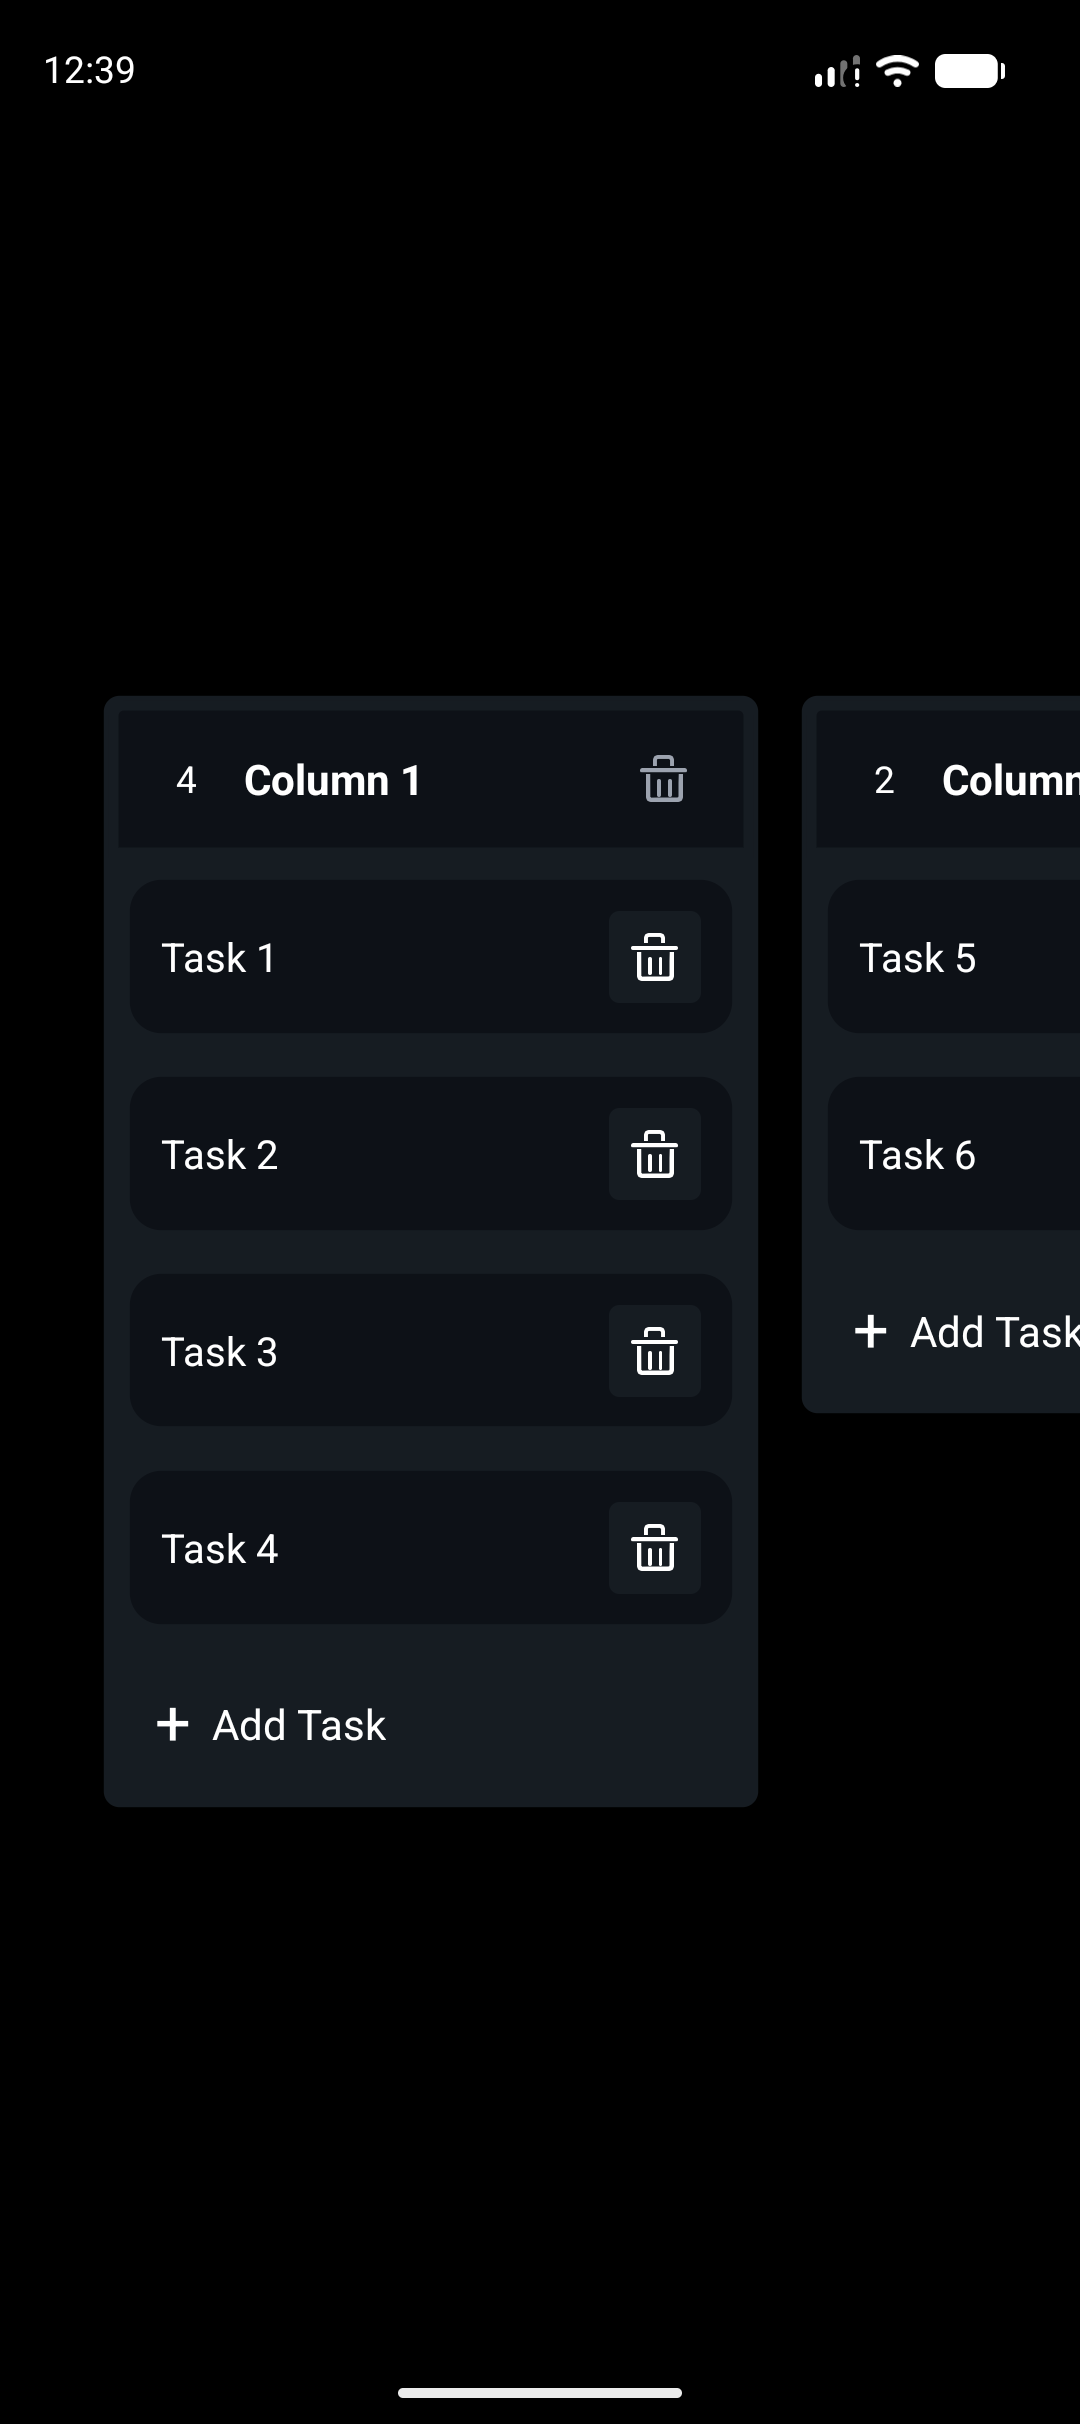
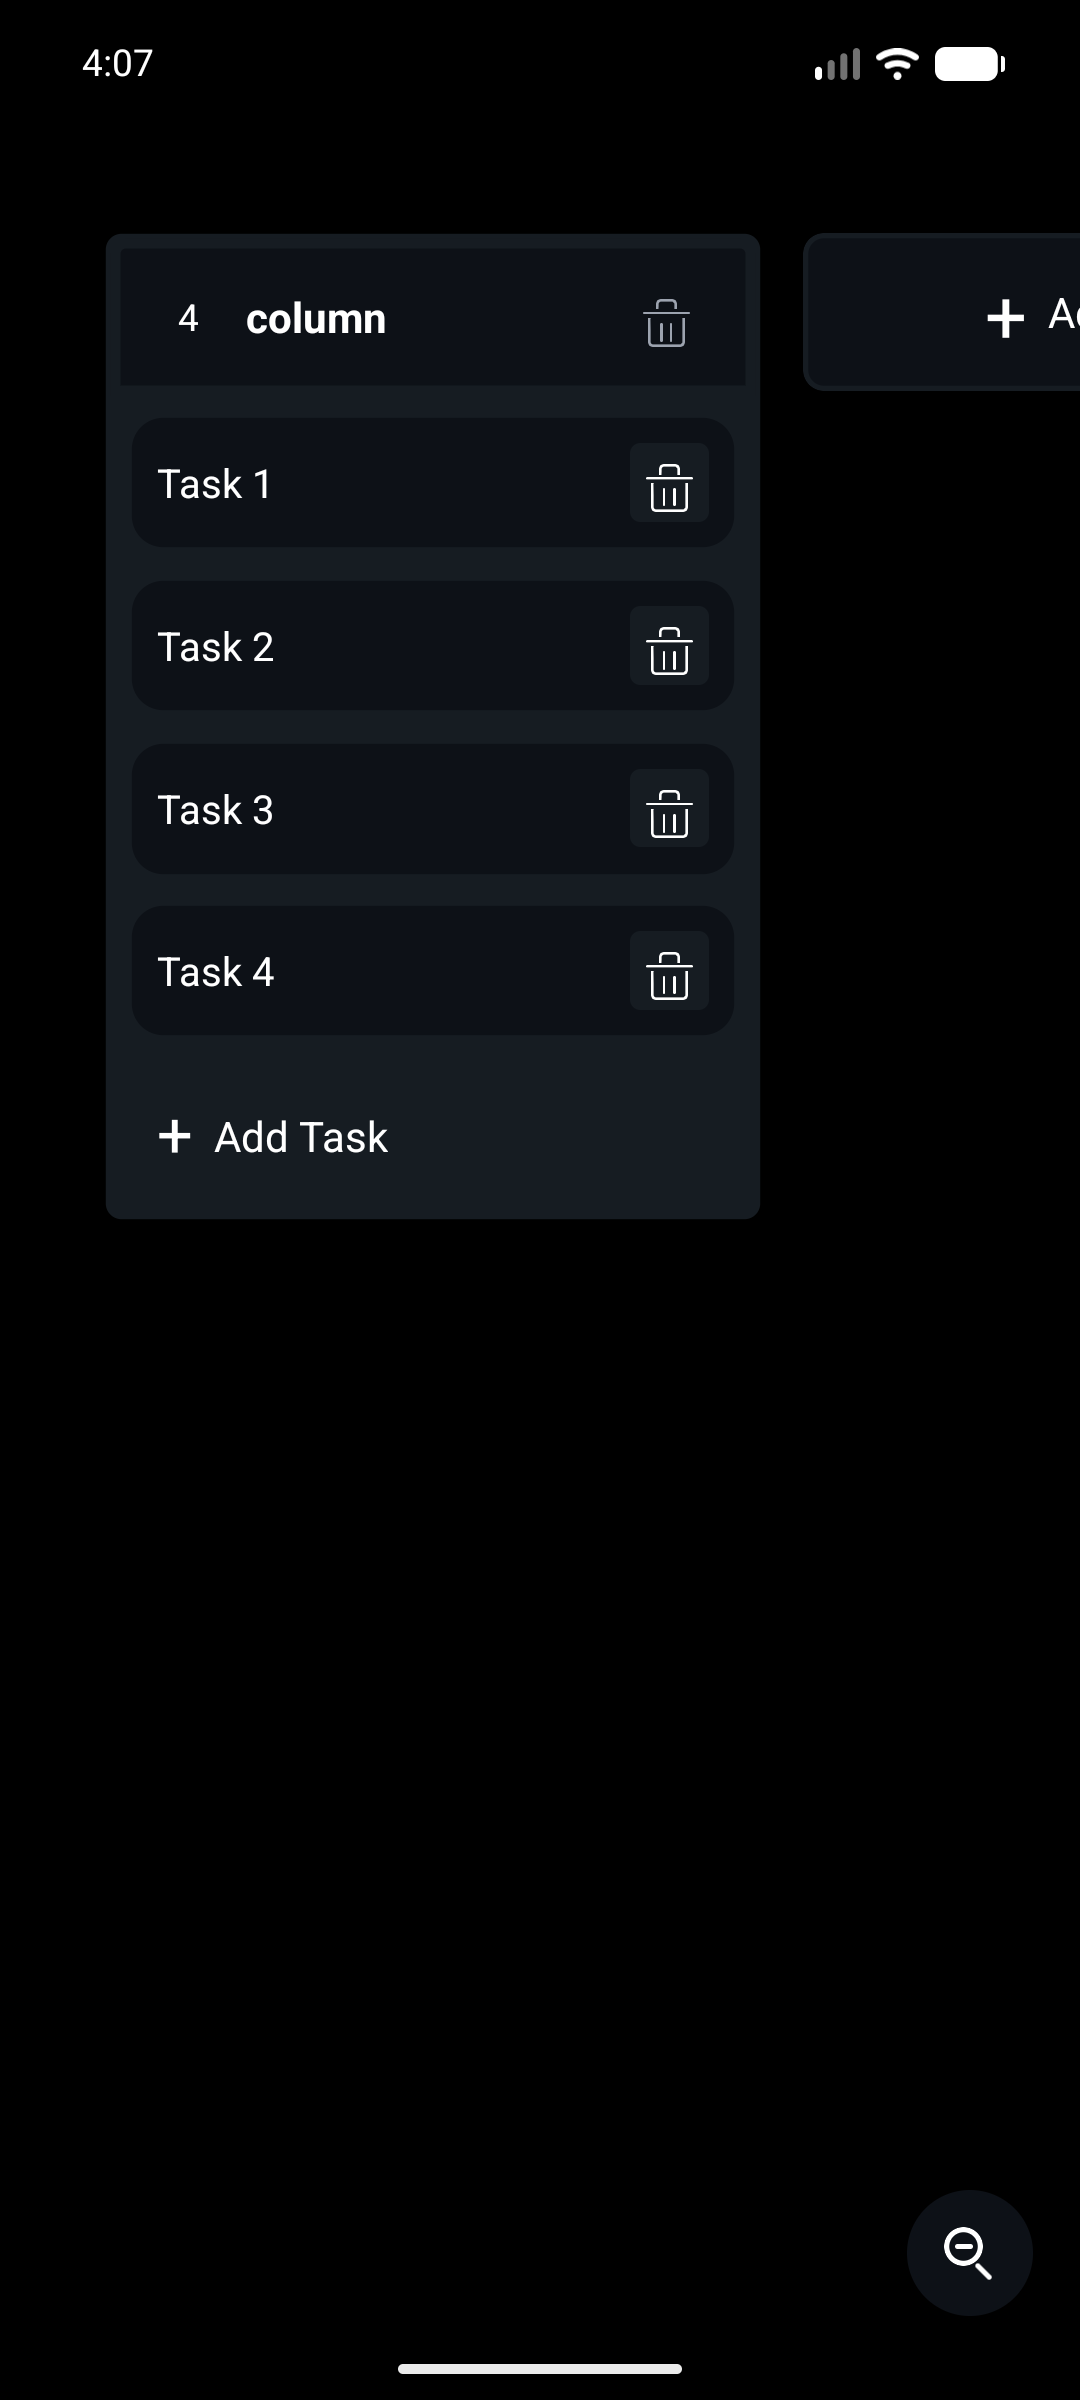
fixing typescript issues

diff --git a/src/components/KanbanBoard.tsx b/src/components/KanbanBoard.tsx
@@ -155,7 +155,7 @@ function parsePersistedBoardState(
     }
 
     const columns = parsed.columns.filter(isPersistedColumn);
-    const columnIds = new Set(columns.map((column) => String(column.id)));
+    const columnIds = new Set(columns.map((column) => column.id));
     const tasks = parsed.tasks.filter(
       (task): task is Task =>
         isPersistedTask(task) && columnIds.has(String(task.columnId)),
@@ -222,22 +222,22 @@ class BoardDragMetrics {
   }
 
   setColumnLayout(id: Id, layout: ColumnLayout) {
-    this.columnLayouts.set(String(id), layout);
+    this.columnLayouts.set(id, layout);
   }
 
   setColumnScrollMetrics(id: Id, metrics: ColumnScrollMetrics) {
-    this.columnScrollMetrics.set(String(id), metrics);
+    this.columnScrollMetrics.set(id, metrics);
   }
 
   setColumnScrollY(id: Id, scrollY: number) {
-    const metrics = this.columnScrollMetrics.get(String(id));
+    const metrics = this.columnScrollMetrics.get(id);
     if (!metrics) return;
 
     metrics.scrollY = scrollY;
   }
 
   setColumnTaskLayouts(id: Id, layouts: TaskListItemLayout[]) {
-    this.columnTaskLayouts.set(String(id), layouts);
+    this.columnTaskLayouts.set(id, layouts);
   }
 
   getTargetColumnId(columns: Column[], pointerX: number) {
@@ -253,7 +253,7 @@ class BoardDragMetrics {
     let nearestDistance = Number.POSITIVE_INFINITY;
 
     for (const column of columns) {
-      const layout = this.columnLayouts.get(String(column.id));
+      const layout = this.columnLayouts.get(column.id);
       if (!layout) continue;
 
       const columnStart = layout.x;
@@ -365,12 +365,12 @@ class BoardDragMetrics {
     taskMinHeight: number,
     taskListPadding: number,
   ) {
-    const metrics = this.columnScrollMetrics.get(String(columnId));
+    const metrics = this.columnScrollMetrics.get(columnId);
     if (!metrics || metrics.viewportHeight <= 0) return null;
 
     const pointerContentY =
       pointerY - metrics.windowY + metrics.scrollY - taskListPadding;
-    const taskLayouts = this.columnTaskLayouts.get(String(columnId)) ?? [];
+    const taskLayouts = this.columnTaskLayouts.get(columnId) ?? [];
 
     if (taskLayouts.length > 0) {
       const layoutIndex = taskLayouts.findIndex(
@@ -390,7 +390,7 @@ class BoardDragMetrics {
   }
 
   getVerticalAutoScrollTarget(columnId: Id, pointerY: number) {
-    const metrics = this.columnScrollMetrics.get(String(columnId));
+    const metrics = this.columnScrollMetrics.get(columnId);
     if (!metrics || metrics.viewportHeight <= 0) return null;
 
     const maxScrollY = Math.max(
@@ -444,7 +444,7 @@ class BoardDragMetrics {
   }
 
   scrollColumnTo(columnId: Id, scrollY: number) {
-    const metrics = this.columnScrollMetrics.get(String(columnId));
+    const metrics = this.columnScrollMetrics.get(columnId);
     if (!metrics) return;
 
     metrics.scrollY = scrollY;
@@ -624,7 +624,7 @@ function KanbanBoard() {
   const boardHorizontalScrollXRef = useRef(0);
   const boardHorizontalViewportWidthRef = useRef(0);
   const boardHorizontalContentWidthRef = useRef(0);
-  const [boardDragMetrics] = useState(() => new BoardDragMetrics());
+  const boardDragMetrics = useRef(new BoardDragMetrics()).current;
   const [taskOverlayPosition] = useState(() => new Animated.ValueXY());
   const [taskOverlayOpacity] = useState(() => new Animated.Value(0));
   const [taskOverlayScale] = useState(() => new Animated.Value(1));
@@ -633,6 +633,10 @@ function KanbanBoard() {
     ? ZOOMED_OUT_BOARD_LAYOUT
     : NORMAL_BOARD_LAYOUT;
   const columnStep = boardLayout.columnWidth + boardLayout.columnGap;
+  const boardLayoutRef = useRef(boardLayout);
+  boardLayoutRef.current = boardLayout;
+  const columnStepRef = useRef(columnStep);
+  columnStepRef.current = columnStep;
 
   useEffect(() => {
     let isMounted = true;
@@ -677,22 +681,22 @@ function KanbanBoard() {
     );
   }, [columns, hasLoadedStoredBoard, tasks]);
 
-  const scrollBoardHorizontallyToEnd = useCallback(() => {
+  const scrollBoardHorizontallyToEnd = useCallback((animated = false) => {
     const viewportWidth = boardHorizontalViewportWidthRef.current;
     const contentWidth = boardHorizontalContentWidthRef.current;
 
     if (viewportWidth <= 0 || contentWidth <= 0) {
-      boardScrollRef.current?.scrollToEnd({ animated: false });
+      boardScrollRef.current?.scrollToEnd({ animated });
       return;
     }
 
     const nextScrollX = Math.max(0, contentWidth - viewportWidth);
 
-    if (Math.abs(nextScrollX - boardHorizontalScrollXRef.current) < 1) return;
+    if (!animated && Math.abs(nextScrollX - boardHorizontalScrollXRef.current) < 1) return;
 
     boardHorizontalScrollXRef.current = nextScrollX;
     boardDragMetrics.setBoardScrollX(nextScrollX);
-    boardScrollRef.current?.scrollTo({ x: nextScrollX, animated: false });
+    boardScrollRef.current?.scrollTo({ x: nextScrollX, animated });
   }, [boardDragMetrics]);
 
   useEffect(() => {
@@ -710,7 +714,7 @@ function KanbanBoard() {
   const tasksByColumn = useMemo(
     () =>
       columns.reduce<Record<string, Task[]>>((acc, column) => {
-        acc[String(column.id)] = tasks.filter(
+        acc[column.id] = tasks.filter(
           (task) => task.columnId === column.id,
         );
         return acc;
@@ -888,7 +892,7 @@ function KanbanBoard() {
       const fromIndex = currentColumns.findIndex((column) => column.id === id);
       if (fromIndex === -1) return currentColumns;
 
-      const indexOffset = Math.round(deltaX / columnStep);
+      const indexOffset = Math.round(deltaX / columnStepRef.current);
       const toIndex = clamp(
         fromIndex + indexOffset,
         0,
@@ -898,7 +902,7 @@ function KanbanBoard() {
       if (fromIndex === toIndex) return currentColumns;
       return arrayMove(currentColumns, fromIndex, toIndex);
     });
-  }, [columnStep]);
+  }, []);
 
   const updateTaskDragPreview = useCallback(
     (
@@ -909,6 +913,7 @@ function KanbanBoard() {
       targetColumnId?: Id | null,
       targetIndexOverride?: number | null,
     ) => {
+      const { taskGap, taskMinHeight } = boardLayoutRef.current;
       const nextPreview = getTaskDragPreview(
         taskId,
         deltaX,
@@ -916,9 +921,9 @@ function KanbanBoard() {
         columns,
         tasks,
         placeholderHeight,
-        columnStep,
-        boardLayout.taskGap,
-        boardLayout.taskMinHeight,
+        columnStepRef.current,
+        taskGap,
+        taskMinHeight,
         targetColumnId,
         targetIndexOverride,
       );
@@ -950,7 +955,7 @@ function KanbanBoard() {
         return nextPreview;
       });
     },
-    [boardLayout.taskGap, boardLayout.taskMinHeight, columnStep, columns, tasks],
+    [columns, tasks],
   );
 
   const moveTask = useCallback(
@@ -965,6 +970,7 @@ function KanbanBoard() {
           : deltaX;
 
       setTasks((currentTasks) => {
+        const { taskGap, taskMinHeight } = boardLayoutRef.current;
         const preview =
           lastTaskDragPreview.current?.taskId === taskId
             ? lastTaskDragPreview.current
@@ -975,16 +981,16 @@ function KanbanBoard() {
                 columns,
                 currentTasks,
                 placeholderHeight,
-                columnStep,
-                boardLayout.taskGap,
-                boardLayout.taskMinHeight,
+                columnStepRef.current,
+                taskGap,
+                taskMinHeight,
               );
         if (!preview) return currentTasks;
 
         return moveTaskToPreview(taskId, columns, currentTasks, preview);
       });
     },
-    [boardLayout.taskGap, boardLayout.taskMinHeight, columnStep, columns],
+    [columns],
   );
 
   const stopAutoScrollLoop = useCallback(() => {
@@ -1071,6 +1077,7 @@ function KanbanBoard() {
                 task.id !== currentDrag.taskId,
             ).length;
 
+      const { taskGap, taskMinHeight, taskListPadding } = boardLayoutRef.current;
       const targetIndex =
         targetColumnId === null
           ? null
@@ -1079,9 +1086,9 @@ function KanbanBoard() {
               pointerY,
               currentDrag.placeholderHeight,
               targetTaskCount,
-              boardLayout.taskGap,
-              boardLayout.taskMinHeight,
-              boardLayout.taskListPadding,
+              taskGap,
+              taskMinHeight,
+              taskListPadding,
             );
 
       updateTaskDragPreview(
@@ -1112,9 +1119,6 @@ function KanbanBoard() {
     },
     [
       boardDragMetrics,
-      boardLayout.taskGap,
-      boardLayout.taskListPadding,
-      boardLayout.taskMinHeight,
       columns,
       taskOverlayPosition,
       taskOverlayTilt,
@@ -1456,7 +1460,7 @@ function KanbanBoard() {
             boardHorizontalContentWidthRef.current = width;
 
             if (addColumnDraft !== null) {
-              scrollBoardHorizontallyToEnd();
+              scrollBoardHorizontallyToEnd(true);
             }
           }}
           onLayout={(event) => {
@@ -1521,7 +1525,7 @@ function KanbanBoard() {
                   isDropTarget={isDropTarget}
                   isZoomedOut={isZoomedOut}
                   shouldAnimateTaskLayout={shouldAnimateTaskLayout}
-                  tasks={tasksByColumn[String(col.id)] ?? []}
+                  tasks={tasksByColumn[col.id] ?? []}
                 />
               );
             })}

diff --git a/src/components/ColumnContainer.tsx b/src/components/ColumnContainer.tsx
@@ -271,7 +271,7 @@ function ColumnContainer({
 
   const publishTaskLayouts = useCallback(() => {
     const layouts = visibleTasks
-      .map((task) => taskLayoutsRef.current.get(String(task.id)))
+      .map((task) => taskLayoutsRef.current.get(task.id))
       .filter((layout): layout is TaskListItemLayout => layout !== undefined);
 
     onColumnTaskLayoutsChange(column.id, layouts);
@@ -310,7 +310,7 @@ function ColumnContainer({
   }, [isDropTarget, isTaskDragActive, publishScrollMetrics]);
 
   useEffect(() => {
-    const visibleTaskIds = new Set(visibleTasks.map((task) => String(task.id)));
+    const visibleTaskIds = new Set(visibleTasks.map((task) => task.id));
 
     taskLayoutsRef.current.forEach((_layout, taskId) => {
       if (!visibleTaskIds.has(taskId)) {
@@ -324,7 +324,7 @@ function ColumnContainer({
   const handleTaskLayout = useCallback(
     (task: Task, event: LayoutChangeEvent) => {
       const { y, height } = event.nativeEvent.layout;
-      const taskId = String(task.id);
+      const taskId = task.id;
       const currentLayout = taskLayoutsRef.current.get(taskId);
 
       if (currentLayout?.y === y && currentLayout?.height === height) {

diff --git a/src/types.ts b/src/types.ts
@@ -1,4 +1,4 @@
-export type Id = string | number;
+export type Id = string;
 
 export type Column = {
   id: Id;